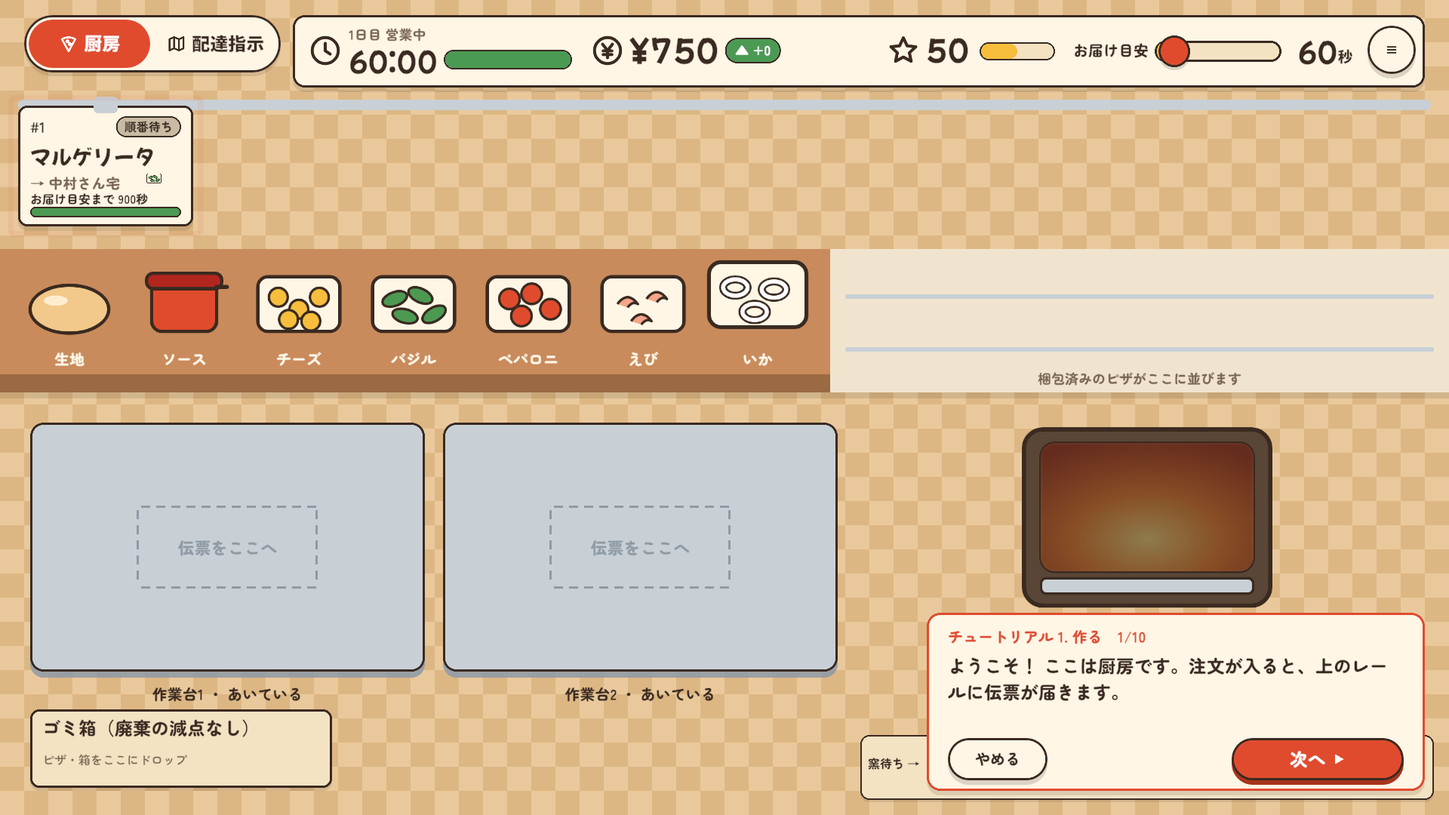
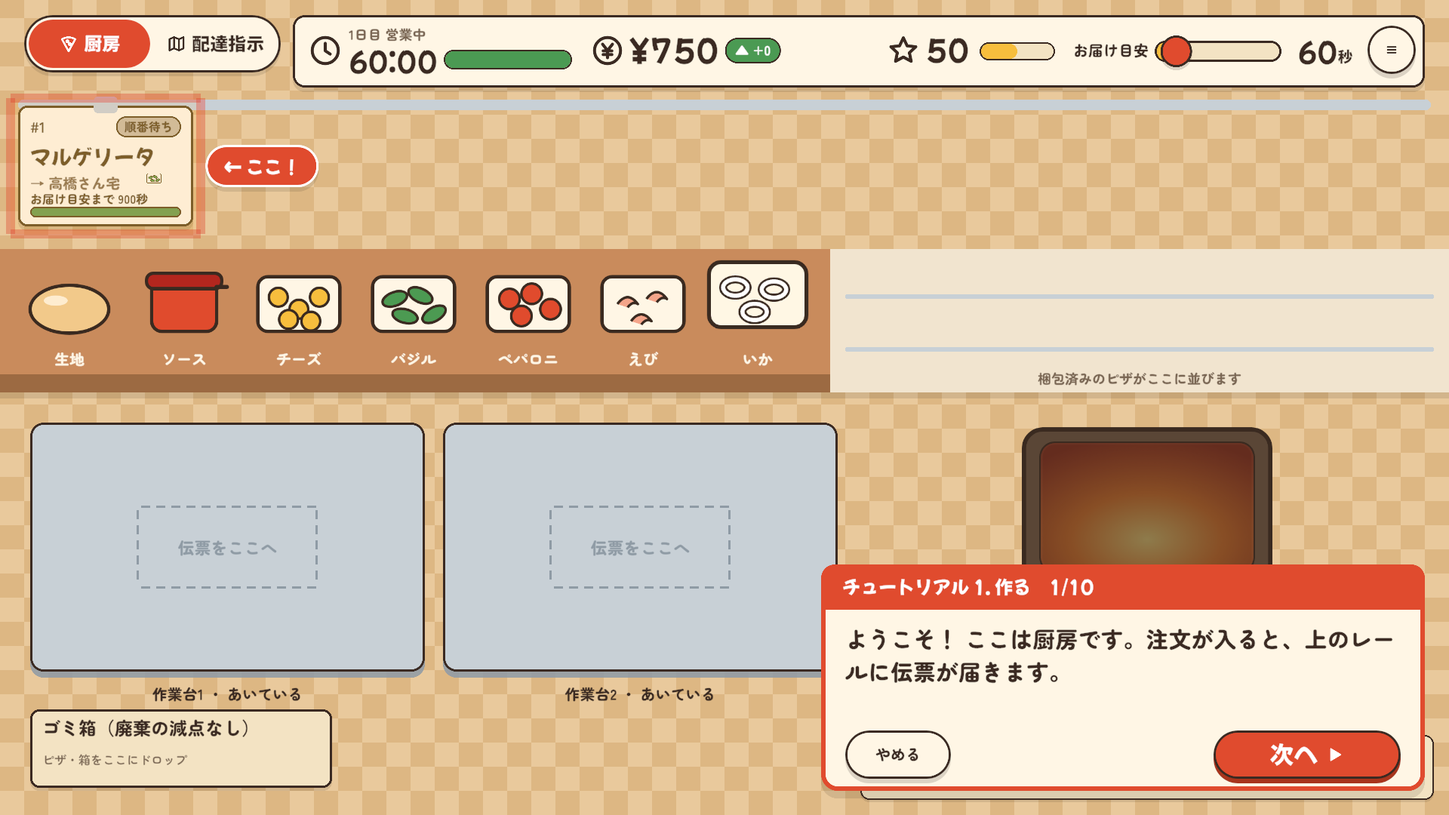
Tutorial fixes: prominent coach card, frame the unassigned ticket, mid-distance homes; route drag and roadside houses
- Coach card: red title band, larger text, pop-in, bobbing pointer beside the first frame
- Chapter 2 frames the ticket not yet in a lane, picks homes at mid travel time and zooms the map
- Business map: pressing the route line (not a pin) edits the route instead of panning
- Houses drawn beside their street with a short driveway; routing unchanged
- Chapter 3 text: discarding costs nothing, materials are charged once at departure

Changed region(s): [[0.5625, 0.6722, 1.0, 0.9778], [0.0, 0.0917, 0.2188, 0.3056], [0.8125, 0.8861, 0.9688, 0.9778]]

diff --git a/Assets/Scripts/UI/Tutorial/TutorialDirector.Chapters.cs b/Assets/Scripts/UI/Tutorial/TutorialDirector.Chapters.cs
@@ -34,7 +34,25 @@ public sealed partial class TutorialDirector
     }
     private PizzaStage StageOf(Order o)=>Cooking.JobFor(o) is PizzaJob j?j.Stage:o.IsReady?PizzaStage.Packed:PizzaStage.Ticket;
     private RectTransform Ticket()=>business.GetComponentsInChildren<RectTransform>(true).FirstOrDefault(t=>t.name.StartsWith("Ticket_") && t.gameObject.activeInHierarchy);
-    private RectTransform OrderCard()=>business.GetComponentsInChildren<RectTransform>(true).FirstOrDefault(t=>t.name.StartsWith("Order_") && t.gameObject.activeInHierarchy);
+    /// <summary>The card of a baked order that is not in a lane yet (the one to drag next).</summary>
+    private RectTransform OrderCard()
+    {
+        var next=Orders.Orders.FirstOrDefault(o=>o.IsReady && o.Status==OrderStatus.Pending && !Handover.IsBagged(o));
+        return next!=null?Part("Order_"+business.Number(next)):null;
+    }
+    /// <summary>Two homes a fair way from the shop and near each other, so the joint route is easy to see.</summary>
+    private string[] DeliveryHomes()
+    {
+        var map=FindFirstObjectByType<MapManager>();var spawner=FindFirstObjectByType<OrderSpawner>();
+        var homes=map.Nodes.Where(n=>n.NodeType==NodeType.DeliveryAddress && !n.IsStore)
+            .Select(n=>{float t;try{t=spawner.ShortestArrivalSeconds(n.Id);}catch(System.InvalidOperationException){t=float.MaxValue;}return (node:n,time:t);})
+            .Where(h=>h.time<float.MaxValue).OrderBy(h=>h.time).ToList();
+        if(homes.Count<2)return homes.Select(h=>h.node.Id).DefaultIfEmpty(NearestHomes(1)[0]).ToArray();
+        var first=homes[Mathf.Clamp(homes.Count*2/5,0,homes.Count-1)];
+        var second=homes.Where(h=>h.node!=first.node && Mathf.Abs(h.time-first.time)<first.time*.5f)
+            .OrderBy(h=>Vector2.Distance(h.node.Position,first.node.Position)).Select(h=>(h.node,h.time)).DefaultIfEmpty(homes.First(h=>h.node!=first.node)).First();
+        return new[]{first.node.Id,second.node.Id};
+    }
     private static string TrayName(Topping t)=>"Tray_"+ShopStrings.Topping(t);
 
     // ---- 1. 作る ----
@@ -61,15 +79,27 @@ public sealed partial class TutorialDirector
     private void ChapterDelivery()
     {
         OpenShop(ShopZone.Dispatch);
-        var homes=NearestHomes(2);
+        var homes=DeliveryHomes();
         var a=AddOrder(homes[0],BakingState.Ready);var b=AddOrder(homes[homes.Length>1?1:0],BakingState.Ready);
-        Explain("ここは配達指示の画面です。左に焼き上がった伝票、下に配達員のレーン、地図に届け先が出ます。",()=>Parts("Orders","LaneViewport"));
+        Explain("ここは配達指示の画面です。左に焼き上がった伝票、下に配達員のレーン、地図に届け先が出ます。",()=>Parts("Orders","LaneViewport"),()=>FocusMap(homes));
         Add($"伝票を、配達員のレーンへドラッグしましょう（{Courier.Name} は{Courier.Capacity}枚まで運べます）。",()=>Roster.People.Any(p=>Handover.BagOf(p).Count>=1),()=>new[]{OrderCard(),Part("Lane_"+Courier.Name)});
         Add("もう1枚も同じレーンへ入れると、1回の配達でまとめて届けられます。",()=>Roster.People.Any(p=>Handover.BagOf(p).Count>=2),()=>new[]{OrderCard(),Part("Lane_"+Courier.Name)});
-        Explain("地図の線が、配達員が通る道です。線をつかんで別の道へドラッグすると、道順を変えられます。混んでいる道は避けましょう。");
+        Explain("地図の赤い線が、配達員が通る道です。線をつかんで別の道へドラッグすると、道順を変えられます（道をクリックしても選べます）。混んでいる道は避けましょう。");
         Add("「出発」を押しましょう。",()=>Roster.People.Any(p=>p.CurrentTrip!=null),()=>Parts("Depart_"+Courier.Name));
         Add("配達中です。「早送り」を押している間は時間が早く進みます。2軒に届くまで待ちましょう。",()=>a.Status==OrderStatus.Delivered && b.Status==OrderStatus.Delivered,()=>Parts("FastForward"));
         Explain("配達完了！ 期限内に届けると、チップと品質ボーナスがもらえます。配達員は店に戻ると、次の配達に行けます。",()=>Parts("Lane_"+Courier.Name));
+    }
+
+    /// <summary>Zooms the dispatch map onto the shop and the tutorial's homes, so the route is large enough to follow.</summary>
+    private void FocusMap(string[] homes)
+    {
+        var map=FindFirstObjectByType<MapManager>();var cam=Camera.main;if(map==null || cam==null)return;
+        var points=homes.Select(map.HomeAt).Append(map.HomeAt(map.StoreNodeId)).ToList();
+        Vector2 min=points.Aggregate(Vector2.Min),max=points.Aggregate(Vector2.Max),center=(min+max)/2;
+        // The map shows between the order list (left), the lanes (bottom) and the controls (right): aim a bit up and right.
+        float size=Mathf.Max((max.y-min.y)*.5f/.45f,(max.x-min.x)*.5f/(.45f*cam.aspect),3f);
+        cam.orthographicSize=size;
+        cam.transform.position=new Vector3(center.x-size*cam.aspect*.08f,center.y-size*.22f,cam.transform.position.z);
     }
 
     // ---- 3. 内勤と作り直し ----
@@ -87,7 +117,7 @@ public sealed partial class TutorialDirector
         Explain("次は、失敗したピザの扱いです。いまから、ソースが薄くて具がちがうピザを焼いてみます。");
         Add($"焼いています…（{name}は別の注文を作っています）",()=>failed!=null && failed.NeedsDecision,()=>Parts("Ovens"),()=>BakeFailedPizza(homes[0],homes[homes.Length>1?1:0]));
         steps[^1].Tick=KeepFailedPizzaWithPlayer;
-        Add("失敗したピザが保温棚に出ました。ゴミ箱へドラッグすると、作り直しになります（材料費がかかります）。",()=>discarded || remake.IsReady,()=>Parts("WarmingShelf","Trash"));
+        Add("失敗したピザが保温棚に出ました。ゴミ箱へドラッグすると、作り直しになります（捨てても費用はかかりません。材料費は出発のときに1枚分だけです）。",()=>discarded || remake.IsReady,()=>Parts("WarmingShelf","Trash"));
         Add($"作り直しは生地から始まります。自分で作るか、そのまま8秒待つと{name}が引き継ぎます。完成させましょう。",()=>remake.IsReady,()=>Parts("Benches"));
         Explain($"完成！ 内勤は手が空くと、放っておかれたピザを引き継ぎます。失敗したピザは「そのまま出す」（★が少ない）か、作り直すかを選べます。");
     }

diff --git a/Assets/Scripts/UI/Tutorial/TutorialDirector.cs b/Assets/Scripts/UI/Tutorial/TutorialDirector.cs
@@ -37,8 +37,9 @@ public sealed partial class TutorialDirector : MonoBehaviour
     private BusinessView business;
     private ScreenRouter router;
     private GameMenu menu;
-    private RectTransform overlay,coach,frames;
-    private TextMeshProUGUI coachTitle,coachText;
+    private RectTransform overlay,coach,frames,pointer;
+    private float poppedAt=-10;
+    private TextMeshProUGUI coachTitle,coachText,pointerText;
     private StickerButton nextButton,quitButton,secondButton;
     private readonly List<RectTransform> frameList=new();
     private bool started;
@@ -79,7 +80,7 @@ public sealed partial class TutorialDirector : MonoBehaviour
     {
         StepIndex=index;
         if(index>=steps.Count){Finish();return;}
-        var step=steps[index];step.Enter?.Invoke();nextLookup=0;
+        var step=steps[index];step.Enter?.Invoke();nextLookup=0;poppedAt=Time.unscaledTime;
         clock.AutomaticTick=!step.Manual;
         coachTitle.text=$"チュートリアル {Chapter}. {ChapterTitles[Chapter-1]}　{index+1}/{steps.Count}";
         coachText.text=step.Text;
@@ -126,12 +127,18 @@ public sealed partial class TutorialDirector : MonoBehaviour
         var canvas=router.Root(ScreenId.Business).GetComponentInParent<Canvas>();
         overlay=UiKit.Stretch(canvas.rootCanvas.transform,"TutorialOverlay");
         frames=UiKit.Stretch(overlay,"Frames");
-        coach=UiKit.Card(overlay,"TutorialCoach",0,0,660,236,T.paper,18,6,3,T.tomato);
-        coachTitle=UiKit.Label(coach,"Title","",28,16,604,32,T.bodySize,T.tomato,FontRole.Black);
-        coachText=UiKit.Label(coach,"Text","",28,52,604,112,T.subheadingSize,T.line,FontRole.Black,TextAlignmentOptions.TopLeft,true);
-        nextButton=UiKit.Button(coach,"TutorialNext","次へ ▶",StickerKind.Primary,404,166,228,56,T.subheadingSize,Next);
-        secondButton=UiKit.Button(coach,"TutorialTitle","タイトルへ",StickerKind.Secondary,176,166,212,56,T.bodySize,()=>GameScenes.LoadTitle());
-        quitButton=UiKit.Button(coach,"TutorialQuit","やめる",StickerKind.Secondary,28,166,132,56,T.bodySize,()=>GameScenes.LoadTitle());
+        // Large, red-framed and bouncing on every new step, so it is read rather than missed.
+        coach=UiKit.Card(overlay,"TutorialCoach",0,0,800,300,T.paper,22,10,6,T.tomato);
+        var band=UiKit.Box(coach,"Band",0,0,800,60);UiKit.Fill(band,T.tomato,18);
+        UiKit.Fill(UiKit.Box(band,"Square",0,30,800,30),T.tomato,0);
+        coachTitle=UiKit.Label(band,"Title","",28,0,744,60,T.subheadingSize,Color.white,FontRole.Display);
+        coachText=UiKit.Label(coach,"Text","",32,76,736,132,30,T.line,FontRole.Black,TextAlignmentOptions.TopLeft,true);
+        nextButton=UiKit.Button(coach,"TutorialNext","次へ ▶",StickerKind.Primary,520,220,248,64,T.headingSize,Next,FontRole.Display);
+        secondButton=UiKit.Button(coach,"TutorialTitle","タイトルへ",StickerKind.Secondary,268,220,232,64,T.subheadingSize,()=>GameScenes.LoadTitle());
+        quitButton=UiKit.Button(coach,"TutorialQuit","やめる",StickerKind.Secondary,32,220,140,64,T.bodySize,()=>GameScenes.LoadTitle());
+        pointer=UiKit.Card(overlay,"TutorialPointer",0,0,150,56,T.tomato,28,6,3,Color.white);
+        pointerText=UiKit.Label(pointer,"Text","ここ！ ▼",0,0,150,56,T.subheadingSize,Color.white,FontRole.Display,TextAlignmentOptions.Center);
+        foreach(var g in pointer.GetComponentsInChildren<Graphic>())g.raycastTarget=false;
         overlay.SetAsLastSibling();
     }
     private void Highlight(IEnumerable<RectTransform> targets)
@@ -144,18 +151,37 @@ public sealed partial class TutorialDirector : MonoBehaviour
         {
             bool shown=i<rects.Count;frameList[i].gameObject.SetActive(shown);if(!shown)continue;
             var r=rects[i];UiKit.Place(frameList[i],r.x-10,r.y-10,r.width+20,r.height+20);
-            foreach(var g in frameList[i].GetComponentsInChildren<Image>())g.color=new Color(T.tomato.r,T.tomato.g,T.tomato.b,pulse);
+            foreach(var g in frameList[i].GetComponentsInChildren<Image>())if(g.name!="Glow")g.color=new Color(T.tomato.r,T.tomato.g,T.tomato.b,pulse);
         }
         PlaceCoach(rects);
+        // "ここ！" bobs above the first framed part; the card pops when a step begins.
+        pointer.gameObject.SetActive(rects.Count>0);
+        if(rects.Count>0)
+        {
+            var r=rects[0];float bob=Mathf.Abs(Mathf.Sin(Time.unscaledTime*4))*12;
+            // Above the part; if that would cover the top bar, beside it (right, else below).
+            float x=Mathf.Clamp(r.center.x-75,8,overlay.rect.width-158),y=r.y-10-56-12-bob;
+            string text="ここ！ ▼";
+            if(y<124)
+            {
+                if(r.xMax+178<overlay.rect.width){x=r.xMax+16+bob;y=r.center.y-28;text="← ここ！";}
+                else{y=r.yMax+22+bob;text="▲ ここ！";}
+            }
+            pointerText.text=text;
+            UiKit.Place(pointer,x,y,150,56);
+        }
+        float pop=Mathf.Clamp01((Time.unscaledTime-poppedAt)/.35f);
+        coach.localScale=Vector3.one*(1+.12f*Mathf.Sin(pop*Mathf.PI)*(1-pop));
     }
     private RectTransform NewFrame()
     {
         var f=UiKit.Box(frames,"Frame",0,0,10,10);
+        var glow=UiKit.Stretch(f,"Glow");var gi=UiKit.Fill(glow,new Color(T.cheese.r,T.cheese.g,T.cheese.b,.18f),12);gi.raycastTarget=false;
         foreach(var (name,min,max) in new[]{("Top",new Vector2(0,1),new Vector2(1,1)),("Bottom",new Vector2(0,0),new Vector2(1,0)),("Left",new Vector2(0,0),new Vector2(0,1)),("Right",new Vector2(1,0),new Vector2(1,1))})
         {
             var side=new GameObject(name,typeof(RectTransform),typeof(Image)).GetComponent<RectTransform>();side.SetParent(f,false);
             side.anchorMin=min;side.anchorMax=max;side.pivot=new Vector2(.5f,.5f);
-            bool horizontal=name=="Top" || name=="Bottom";side.sizeDelta=horizontal?new Vector2(0,8):new Vector2(8,0);side.anchoredPosition=Vector2.zero;
+            bool horizontal=name=="Top" || name=="Bottom";side.sizeDelta=horizontal?new Vector2(0,12):new Vector2(12,0);side.anchoredPosition=Vector2.zero;
             side.GetComponent<Image>().raycastTarget=false;
         }
         return f;

diff --git a/Tools/Review/capture_tutorial.py b/Tools/Review/capture_tutorial.py
@@ -39,6 +39,16 @@ def wait(cond,seconds=120):
   time.sleep(.3)
  raise RuntimeError('timed out at '+json.dumps(state()))
 NEXT='d.Next();return "next";'
+# Presses the red route line and drags it onto a nearby road that is not on the route (the map must not pan).
+ROUTE_DRAG=('var bv=UnityEngine.Object.FindFirstObjectByType<BusinessView>();var map=UnityEngine.Object.FindFirstObjectByType<MapManager>();var cam=Camera.main;'
+ 'var p=roster.People.OrderByDescending(x=>x.Capacity).First();var path=RoadPathfinder.Suggest(map,handover.BagOf(p),p).EdgeIds.ToList();'
+ 'var pins=handover.BagOf(p).Select(o=>(Vector2)cam.WorldToScreenPoint(map.HomeAt(o.DestinationNodeId))).Append((Vector2)cam.WorldToScreenPoint(map.HomeAt(map.StoreNodeId))).ToList();'
+ 'Vector2 a=path.Select(id=>{var x=map.Edges.First(y=>y.Id==id);var q=RoadGeometry.Points(map,x);return (Vector2)cam.WorldToScreenPoint(q[q.Length/2]);}).OrderByDescending(q=>pins.Min(pp=>(pp-q).magnitude)).First();'
+ 'var nodes=path.SelectMany(id=>{var x=map.Edges.First(y=>y.Id==id);return new[]{x.NodeAId,x.NodeBId};}).ToHashSet();'
+ 'var other=map.Edges.Where(x=>!path.Contains(x.Id) && (nodes.Contains(x.NodeAId)||nodes.Contains(x.NodeBId))).OrderBy(x=>((Vector2)cam.WorldToScreenPoint(RoadGeometry.Points(map,x)[RoadGeometry.Points(map,x).Length/2])-a).sqrMagnitude).First();'
+ 'var op=RoadGeometry.Points(map,other);Vector2 b=cam.WorldToScreenPoint(op[op.Length/2]);var before=cam.transform.position;'
+ 'bv.PointerDown(a);string t1=bv.InputTrace;bv.PointerMove(a+new Vector2(12,0));bv.PointerMove(b);bv.PointerUp(b);'
+ 'return t1+" || "+bv.InputTrace+" || camera moved "+(cam.transform.position-before).magnitude.ToString("F3");')
 ACTIONS={
  1:[NEXT,
     'var o=orders.Orders.First();return cooking.Claim(o,0).ToString();',
@@ -53,7 +63,7 @@ ACTIONS={
  2:[NEXT,
     'var p=roster.People.OrderByDescending(x=>x.Capacity).First();return handover.Bag(orders.Orders.First(o=>o.IsReady && !handover.IsBagged(o)),p).ToString();',
     'var p=roster.People.OrderByDescending(x=>x.Capacity).First();return handover.Bag(orders.Orders.First(o=>o.IsReady && !handover.IsBagged(o)),p).ToString();',
-    NEXT,
+    ('drag',ROUTE_DRAG),
     'var p=roster.People.OrderByDescending(x=>x.Capacity).First();var b=UnityEngine.Object.FindFirstObjectByType<BusinessView>().GetComponentsInChildren<StickerButton>(true).First(x=>x.name=="Depart_"+p.Name);b.Button.onClick.Invoke();return "depart";',
     ('wait',None),
     NEXT],
@@ -77,6 +87,8 @@ try:
    report.append(f'ch{ch} step {k+1}/{s["n"]}: frames {s["t"]} -> {p}')
    if isinstance(action,tuple):
     kind,src=action
+    if kind=='drag':
+     report.append('   route drag: '+str(code(PRE+src)));time.sleep(.8);report.append('   after drag -> '+str(shot(f'ch{ch}-step{k+1}-dragged')));code(PRE+NEXT)
     if kind=='poll':
      for _ in range(400):
       if code(PRE+src)!='wait':break

diff --git a/Assets/Scripts/Map/MapManager.cs b/Assets/Scripts/Map/MapManager.cs
@@ -215,6 +215,41 @@ public class MapManager : MonoBehaviour
     public IReadOnlyList<MapNode> Nodes => nodes;
     public IReadOnlyList<MapEdge> Edges => edges;
 
+    private readonly Dictionary<string,Vector2> homePositions=new();
+    /// <summary>Where a delivery home is drawn: beside its road, like a real house (2026-10-24). The graph keeps the
+    /// house's frontage on the road (routes, distances and pins of older saves are unchanged); the house stands off to
+    /// the side that is clearer of other roads, joined by a short driveway. Other nodes are drawn where they are.</summary>
+    public Vector2 HomeAt(string nodeId)
+    {
+        if(!nodeLookup.TryGetValue(nodeId,out var node))return Vector2.zero;
+        if(node.IsStore || node.NodeType!=NodeType.DeliveryAddress)return node.Position;
+        if(homePositions.TryGetValue(nodeId,out var cached))return cached;
+        float offset=UITheme.Active!=null?UITheme.Active.mapHomeOffset:.6f;
+        var own=edges.Where(e=>e.NodeAId==nodeId || e.NodeBId==nodeId).ToList();
+        var neighbours=own.Select(e=>nodeLookup[e.NodeAId==nodeId?e.NodeBId:e.NodeAId].Position).ToList();
+        Vector2 p=node.Position,result=p;
+        if(offset>0 && neighbours.Count>0)
+        {
+            Vector2 dir=neighbours.Count>=2?neighbours[1]-neighbours[0]:neighbours[0]-p;
+            if(dir.sqrMagnitude<1e-6f)dir=Vector2.right;
+            var side=new Vector2(-dir.y,dir.x).normalized*offset;
+            float Clearance(Vector2 q)
+            {
+                float best=float.MaxValue;
+                foreach(var e in edges)
+                {
+                    if(own.Contains(e))continue;
+                    Vector2 a=nodeLookup[e.NodeAId].Position,b=nodeLookup[e.NodeBId].Position,ab=b-a;
+                    float t=ab.sqrMagnitude<=0?0:Mathf.Clamp01(Vector2.Dot(q-a,ab)/ab.sqrMagnitude);
+                    best=Mathf.Min(best,(a+ab*t-q).magnitude);
+                }
+                return best;
+            }
+            result=Clearance(p+side)>=Clearance(p-side)?p+side:p-side;
+        }
+        homePositions[nodeId]=result;return result;
+    }
+
     private void Start()
     {
         CreateMap();
@@ -223,7 +258,8 @@ public class MapManager : MonoBehaviour
     private void BuildViews()
     {
         ValidateAndIndex();
-        foreach(var node in nodes){var view=Instantiate(nodeViewPrefab,nodesParent);view.Initialize(node);nodeViews.Add(node.Id,view);}
+        homePositions.Clear();
+        foreach(var node in nodes){var view=Instantiate(nodeViewPrefab,nodesParent);view.Initialize(node,HomeAt(node.Id));nodeViews.Add(node.Id,view);}
         foreach(var edge in edges)
         {
             var view=Instantiate(edgeViewPrefab,edgesParent);

diff --git a/Assets/Scripts/Map/Views/NodeView.cs b/Assets/Scripts/Map/Views/NodeView.cs
@@ -10,11 +10,24 @@ public class NodeView : MonoBehaviour
     private Color baseColor;
     private Vector3 baseScale;
 
-    public void Initialize(MapNode node)
+    public void Initialize(MapNode node)=>Initialize(node,node.Position);
+    /// <summary>Draws the node at drawAt; a delivery home drawn beside its road gets a driveway to its frontage.</summary>
+    public void Initialize(MapNode node,Vector2 drawAt)
     {
         nodeId = node.Id;
         gameObject.name = "Node_" + node.Id;
-        transform.position = node.Position;
+        transform.position = drawAt;
+        if((drawAt-node.Position).sqrMagnitude>1e-6f)
+        {
+            var drive=new GameObject("Driveway").AddComponent<LineRenderer>();
+            drive.transform.SetParent(transform,false);
+            drive.sharedMaterial=spriteRenderer.sharedMaterial;
+            drive.useWorldSpace=true;drive.positionCount=2;
+            drive.SetPosition(0,new Vector3(node.Position.x,node.Position.y,0));drive.SetPosition(1,new Vector3(drawAt.x,drawAt.y,0));
+            drive.startWidth=drive.endWidth=UITheme.Active.backstreetWidth*.7f;
+            drive.startColor=drive.endColor=UITheme.Active.backRoadEdge;
+            drive.sortingOrder=4;
+        }
 
         var theme=UITheme.Active;
         caption=node.IsStore?"ピザ屋":node.NodeType==NodeType.DeliveryAddress?"配達先 "+node.Id.Replace("Goal",""):node.Id;

diff --git a/Assets/Scripts/UI/Screens/Business/BusinessView.Dispatch.cs b/Assets/Scripts/UI/Screens/Business/BusinessView.Dispatch.cs
@@ -539,7 +539,7 @@ public sealed partial class BusinessView
             }
             if(!pins.TryGetValue(node.Id,out var pin))pin=pins[node.Id]=MakePin(node);
             pin.Root.gameObject.SetActive(true);
-            pin.Root.position=new Vector3(node.Position.x,node.Position.y,-1);pin.Root.localScale=Vector3.one*px;
+            var home=map.HomeAt(node.Id);pin.Root.position=new Vector3(home.x,home.y,-1);pin.Root.localScale=Vector3.one*px;
             if(node.IsStore)
             {
                 pin.Sprite.sprite=UiKit.Art("shop_badge");
@@ -880,7 +880,10 @@ public sealed partial class BusinessView
     public void PointerDown(Vector2 pos)
     {
         pressing=true;dragging=pinDragging=routeDragging=false;pressPosition=lastPointer=pos;
-        routeLegPress=-1;pinPress=PinOrderAt(pos);InputTrace=$"press {pos} route leg {routeLegPress}";
+        // A pin under the pointer wins (drag it to a lane); otherwise the route line grabs the leg (drag to reroute),
+        // and anywhere else the drag pans the map.
+        pinPress=PinOrderAt(pos);routeLegPress=pinPress==null && editingPerson==null?RouteLegAt(pos):-1;
+        InputTrace=$"press {pos} route leg {routeLegPress}";
     }
     public void PointerMove(Vector2 pos)
     {

diff --git a/Assets/Scripts/UI/Kit/UITheme.cs b/Assets/Scripts/UI/Kit/UITheme.cs
@@ -47,6 +47,7 @@ public sealed class UITheme : ScriptableObject
     [SerializeField] public Color mapBuildingFill=Hex("#E6D9C4");
     [SerializeField, Tooltip("配達先の家。飾りの建物と見分けられる色にします。")] public Color mapHomeFill=Hex("#F1A43A");
     [SerializeField, Min(.1f), Tooltip("配達先の家の大きさ（nodeSizeに対する倍率）。")] public float mapHomeScale=1.4f;
+    [SerializeField, Min(0f), Tooltip("配達先の家を道の横へずらす距離（ワールド単位）。家の前の点は道の上に残り、短い私道でつなぎます。0で道の上に描きます。")] public float mapHomeOffset=.6f;
     [SerializeField] public Color mapResidentialFill=Hex("#FFF6E5");
     public Color CourierColor(string name)
     {

diff --git a/Docs/Results/Tutorial_S2T.md b/Docs/Results/Tutorial_S2T.md
@@ -35,3 +35,12 @@
 ## 気づいた点
 
 - チュートリアル中は営業時間を60分に延ばしているため、画面上の残り時間が「59:xx」と表示される。
+
+## 修正（2026-10-25、ユーザーの指摘を受けて）
+
+- **案内カードを目立たせた**：800×300、赤い帯に白い見出し、本文30pt、出てくる時にポンと弾む。最初の枠の上に「ここ！▼」の札が上下に揺れる（上に置くと上部バーに重なる時は右に「← ここ！」、右も無理なら下に「▲ ここ！」）。枠は太くし、中を黄色で薄く塗る。
+- **2章「もう一枚も同じレーンへ」の枠**：まだレーンに入れていない伝票を囲むようにした（以前は入れ済みの1枚目を囲んでいた）。
+- **2章の配達先**：店のすぐ隣の家だと道順がほとんど見えないため、到着時間が中ほど（約40パーセンタイル）の家と、その近くの家を選び、地図をその2軒と店が収まるように寄せる。
+- **道順の線をつかんで変える（本編全体）**：配達指示の地図で、ピンがない所の線を押すと地図の移動ではなく道順の変更になる（Codex `4e8f16f` で無効になっていた）。確認：線をつかんで隣の道へドラッグ → 「自動より +4.2秒」「自動に戻す」が出る。
+- **道の途中の家（本編全体・見た目のみ）**：家を道の横（他の道から離れる側）に0.6ずらして描き、道とつなぐ短い私道を引く。ピンも家の位置を指す。経路計算は変えていない。
+- **作り直しの材料費**：材料費は出発のとき配達する1枚につき1回（50円×作業台の割引）。捨てた・作り直したピザには費用がかからない（`wasteCost: 0`）。3章の説明文をこれに合わせて直した。

diff --git a/Docs/Handoff/Workboard.md b/Docs/Handoff/Workboard.md
@@ -1,3 +1,5 @@
+> **完了（2026-10-25）：Claude Codeがチュートリアルの指摘を修正。** 案内カードを大きく赤帯＋「ここ！」札に、2章の枠を未割り当ての伝票へ、配達先を中距離にして地図を寄せる。本編全体：道順の線をつかんで変えられるように戻し、家を道の横に描く（見た目のみ）。詳細：[記録](../Results/Tutorial_S2T.md)。Unity編集モード。
+
 > **完了（2026-10-24）：Claude Codeがチュートリアル（S2-T）を実装。** タイトルから章を選ぶ独立モード（1. 作る／2. 配達する／3. 内勤と作り直し）。案内カードと赤枠で1手順ずつ、操作すると次へ。セーブ・記録・トロフィーは書かない。Test Runner 35件通過、セーブ前後一致、全手順の画面を撮影。詳細：[記録](../Results/Tutorial_S2T.md)。Unity編集モード。
 
 > **完了（2026-10-24）：Claude Codeがローン返済とミッションを開店準備画面へ移動。** 返済は開店準備の間だけ。上のバーにローン残り・返済％・利息・残り日数、左に「ローン・ミッション」タブ（返済ボタン・今日のミッション）。精算画面の返済ボタンは削除。準備中の返済でセーブが読めなくなる不具合も修正。Test Runner 34件通過、セーブ前後一致。詳細：[記録](../Results/Loan_Missions_Preparation.md)。Unity編集モード。
